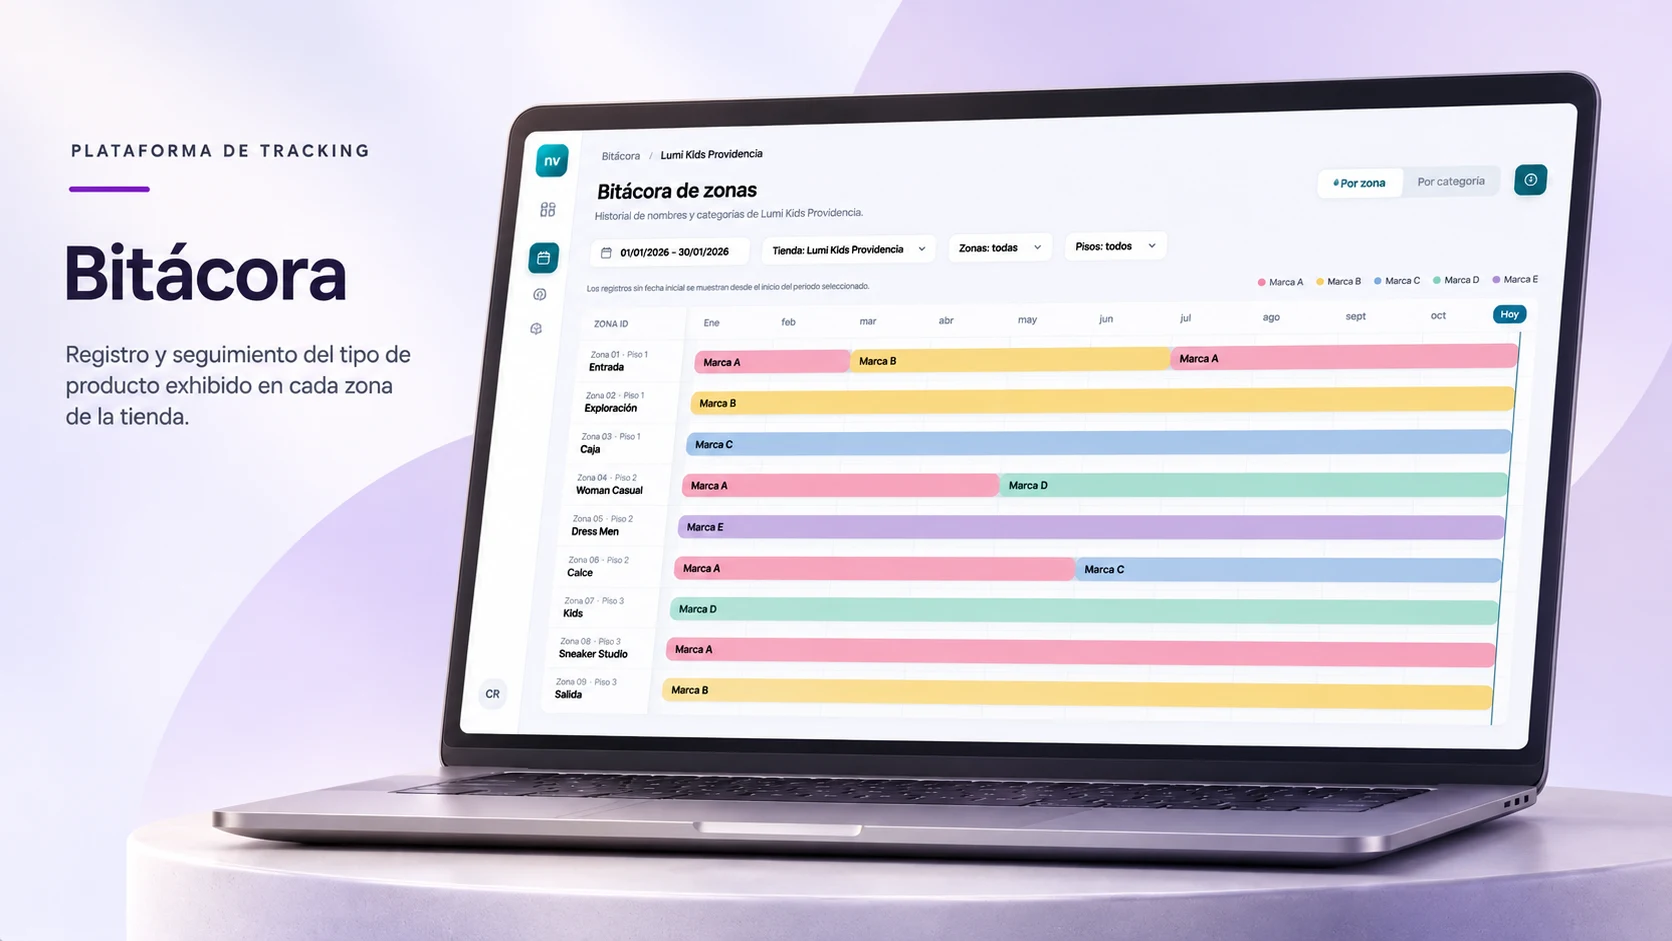
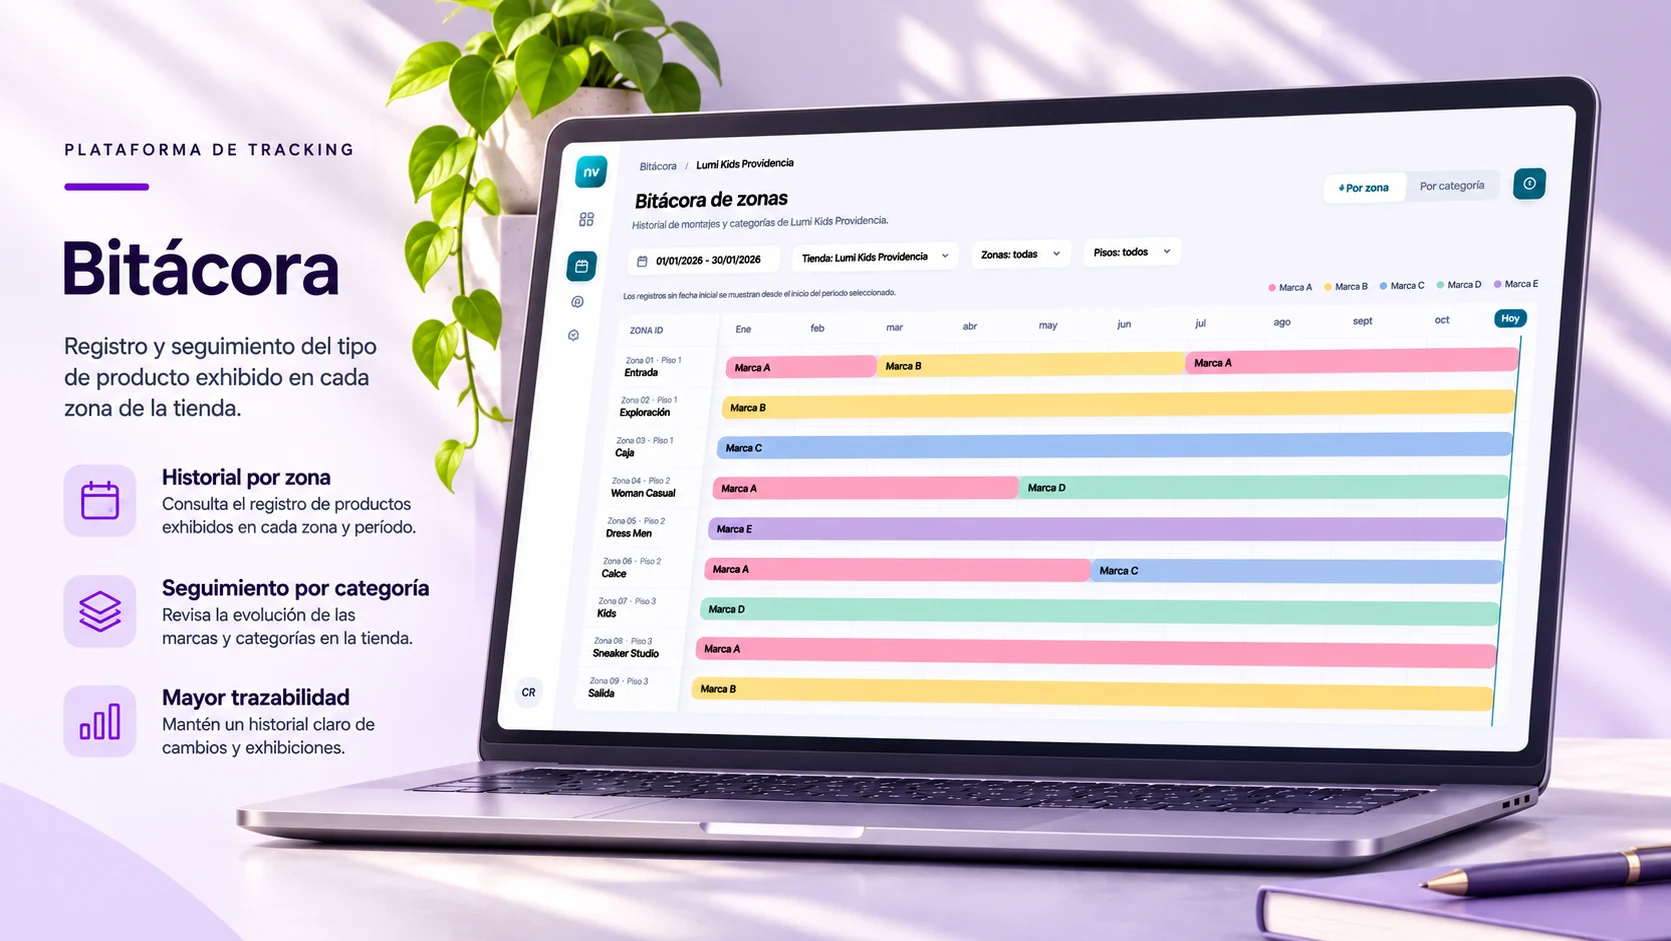
Bitácora: nueva imagen principal

diff --git a/src/content/cases/bitacora-tracking.md b/src/content/cases/bitacora-tracking.md
@@ -11,7 +11,7 @@ contexto: "Plataforma de Tracking · SaaS de analítica retail"
 proyecto: "Plataforma de Tracking"
 meta: "SaaS de analítica retail"
 cover: ../../assets/cases/bitacora-mockup-1.webp
-coverAlt: "Mockup de la Bitácora en un laptop: línea de tiempo de enero a octubre con la marca exhibida en cada zona de una tienda, con filtros por tienda, zona y piso; a la izquierda, su descripción: registro y seguimiento del tipo de producto exhibido en cada zona. Datos ficticios."
+coverAlt: "Mockup de la Bitácora en un laptop: línea de tiempo de enero a octubre con la marca exhibida en cada zona de una tienda, con filtros por tienda, zona y piso; a la izquierda, sus beneficios: historial por zona, seguimiento por categoría y mayor trazabilidad. Datos ficticios."
 cover2: ../../assets/cases/bitacora-mockup-2.webp
 coverAlt2: "Mockup de la configuración de la Bitácora en un laptop: categorías, tabla de zonas con su categoría actual y panel para registrar un cambio con fecha de vigencia e historial de la zona; a la izquierda, sus beneficios: gestión por zonas, historial de cambios y análisis con contexto. Datos ficticios."
 imagenesReferenciales: true

diff --git a/src/content/cases-en/bitacora-tracking.md b/src/content/cases-en/bitacora-tracking.md
@@ -11,7 +11,7 @@ contexto: "Tracking platform · Retail analytics SaaS"
 proyecto: "Tracking platform"
 meta: "Retail analytics SaaS"
 cover: ../../assets/cases/bitacora-mockup-1.webp
-coverAlt: "Mockup of the activity log on a laptop: January-to-October timeline with the brand displayed in each store zone, with filters by store, zone and floor; on the left, its description: recording and tracking the type of product displayed in each zone. Fictional data."
+coverAlt: "Mockup of the activity log on a laptop: January-to-October timeline with the brand displayed in each store zone, with filters by store, zone and floor; on the left, its benefits: history by zone, tracking by category and greater traceability. Fictional data."
 cover2: ../../assets/cases/bitacora-mockup-2.webp
 coverAlt2: "Mockup of the activity log configuration on a laptop: categories, table of zones with their current category, and a panel to register a change with a start date and the zone's history; on the left, its benefits: zone management, change history and analysis with context. Fictional data."
 imagenesReferenciales: true
